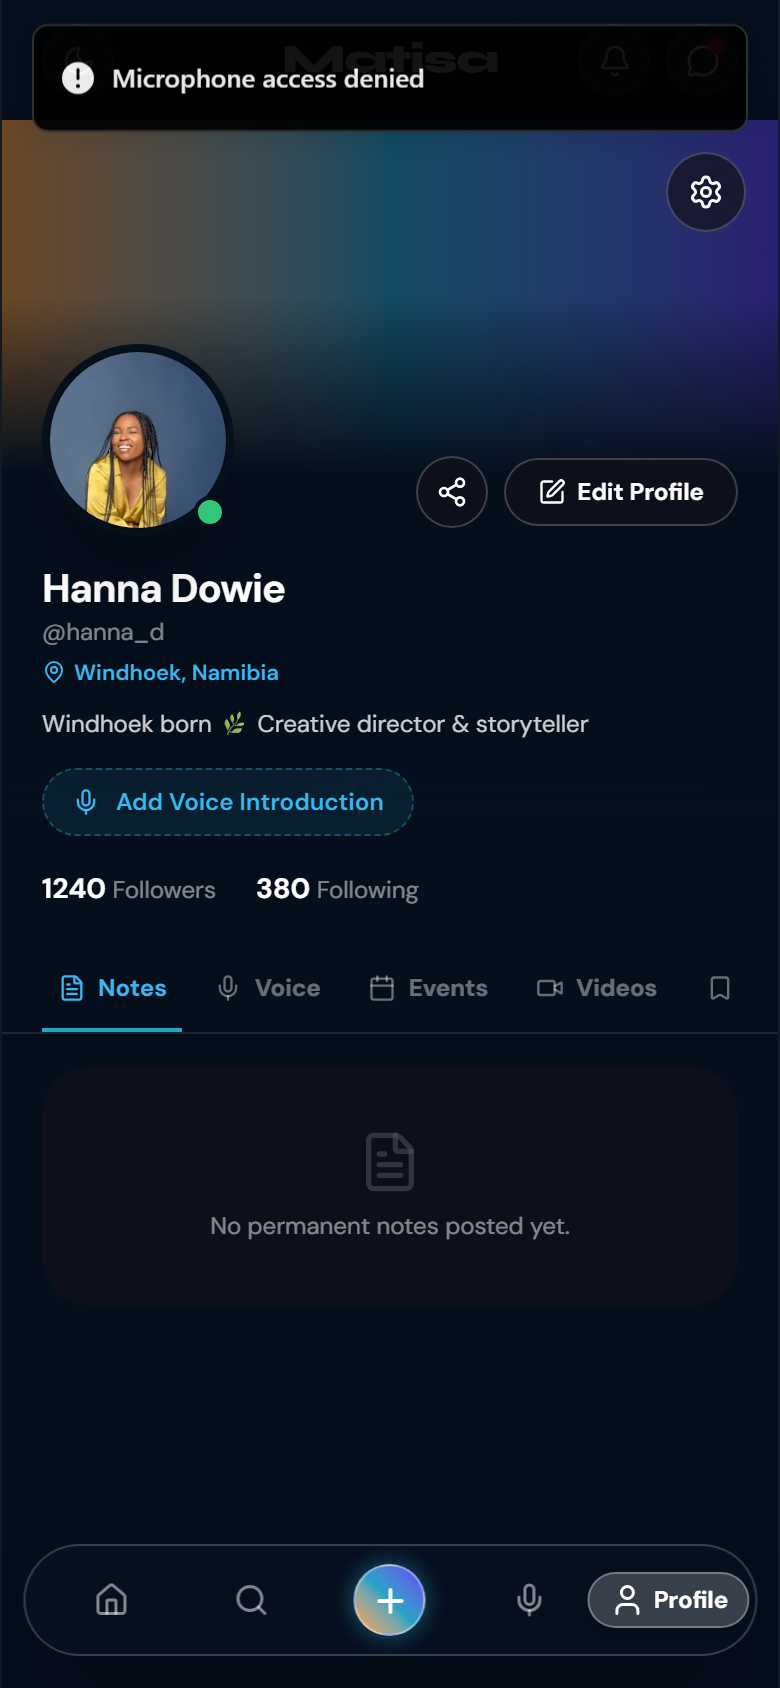
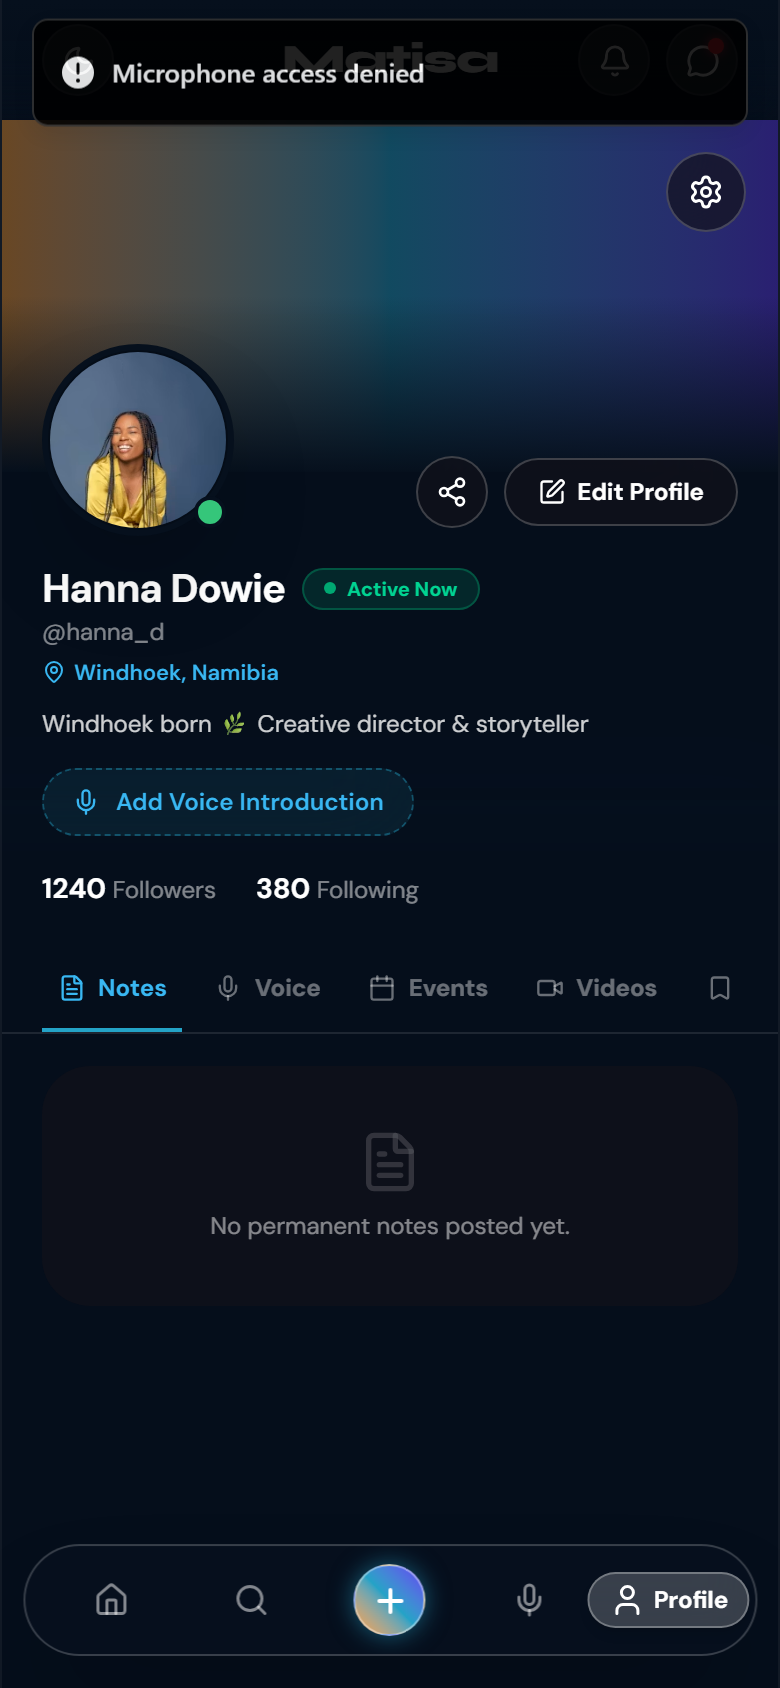
feat(ui): complete Phase 2 and 3 product refinements - contextual sheet, data saver, social proof, and spectator reactions

Changed region(s): [[0.0308, 0.0, 0.9538, 0.0924], [0.3692, 0.3389, 0.6154, 0.3697]]

diff --git a/src/pages/Settings.tsx b/src/pages/Settings.tsx
@@ -1,3 +1,4 @@
+import { useState } from "react";
 import { useNavigate } from "react-router-dom";
 import {
   ArrowLeft,
@@ -9,14 +10,33 @@ import {
   ChevronRight,
   User,
   Lock,
+  Wifi,
+  Sun,
 } from "lucide-react";
 import { useAuth } from "@/contexts/AuthContext";
+import { useTheme } from "@/contexts/ThemeContext";
 import { Avatar } from "@/components/common/Avatar";
 import { toast } from "sonner";
 
 export function Settings() {
   const navigate = useNavigate();
   const { signOut, profile } = useAuth();
+  const { isOutdoorMode, toggleOutdoorMode } = useTheme();
+
+  const [isDataSaver, setIsDataSaver] = useState<boolean>(() => {
+    return localStorage.getItem("matisa_data_saver") === "true";
+  });
+
+  const toggleDataSaver = () => {
+    const next = !isDataSaver;
+    setIsDataSaver(next);
+    localStorage.setItem("matisa_data_saver", String(next));
+    toast.success(
+      next
+        ? "Data Saver Enabled: Compressed images & no audio preloading"
+        : "Data Saver Disabled: Full quality media",
+    );
+  };
 
   const handleLogout = async () => {
     try {
@@ -46,6 +66,26 @@ export function Settings() {
       ],
     },
     {
+      title: "Regional & Network Optimization",
+      items: [
+        {
+          icon: Wifi,
+          label: `Data Saver Mode (${isDataSaver ? "ON" : "OFF"})`,
+          action: toggleDataSaver,
+        },
+        {
+          icon: Sun,
+          label: `Outdoor Sunlight Mode (${isOutdoorMode ? "ON" : "OFF"})`,
+          action: () => {
+            toggleOutdoorMode();
+            toast.success(
+              isOutdoorMode ? "Switched to Sleek Dark Mode" : "Switched to Sunlight Outdoor Mode",
+            );
+          },
+        },
+      ],
+    },
+    {
       title: "Notifications & Audio",
       items: [
         {
@@ -60,6 +100,7 @@ export function Settings() {
         },
       ],
     },
+
     {
       title: "Support & Legal",
       items: [

diff --git a/src/components/karaoke/KaraokeRoom.tsx b/src/components/karaoke/KaraokeRoom.tsx
@@ -312,6 +312,42 @@ export function KaraokeRoom() {
         </div>
       )}
 
+      {/* Spectator Cheer & Reaction Bar */}
+      <div className="relative z-20 px-5 mb-2 flex items-center justify-center gap-2">
+        <button
+          onClick={() => {
+            handleSendReaction();
+            toast.success("👏 You cheered the singer!");
+          }}
+          className="flex items-center gap-1 px-3 py-1.5 rounded-full bg-white/10 text-white text-xs font-bold border border-white/15 hover:bg-white/20 active:scale-95 transition"
+        >
+          <span>👏</span>
+          <span>Cheer</span>
+        </button>
+
+        <button
+          onClick={() => {
+            handleSendReaction();
+            toast.success("🔥 Fire energy sent!");
+          }}
+          className="flex items-center gap-1 px-3 py-1.5 rounded-full bg-[#FF9D2E]/15 text-[#FF9D2E] text-xs font-bold border border-[#FF9D2E]/30 hover:bg-[#FF9D2E]/25 active:scale-95 transition"
+        >
+          <span>🔥</span>
+          <span>Fire</span>
+        </button>
+
+        <button
+          onClick={() => {
+            handleSendReaction();
+            toast.success("🎉 Party vibes!");
+          }}
+          className="flex items-center gap-1 px-3 py-1.5 rounded-full bg-[#6139F2]/15 text-[#24A3C7] text-xs font-bold border border-[#6139F2]/30 hover:bg-[#6139F2]/25 active:scale-95 transition"
+        >
+          <span>🎉</span>
+          <span>Vibes</span>
+        </button>
+      </div>
+
       {/* Floating Bottom Controls */}
       <div className="relative z-20 p-5 pb-safe glass-header">
         <div className="mx-auto flex max-w-[360px] items-center justify-between rounded-full glass-panel-elevated px-5 py-3 border border-white/15 shadow-2xl">

diff --git a/src/components/create/CreateSheet.tsx b/src/components/create/CreateSheet.tsx
@@ -14,7 +14,7 @@ import {
   ChevronRight,
   ArrowLeft,
 } from "lucide-react";
-import { useNavigate } from "react-router-dom";
+import { useNavigate, useLocation } from "react-router-dom";
 import { toast } from "sonner";
 import { useAuth } from "@/contexts/AuthContext";
 import { NoteService } from "@/services/NoteService";
@@ -28,6 +28,7 @@ interface CreateSheetProps {
 
 export function CreateSheet({ open, onClose }: CreateSheetProps) {
   const navigate = useNavigate();
+  const location = useLocation();
   const { profile, requireAuth } = useAuth();
   const [level, setLevel] = useState<"root" | "note-type" | "note-composer" | "room-type">("root");
 
@@ -36,6 +37,22 @@ export function CreateSheet({ open, onClose }: CreateSheetProps) {
   const [isSubmitting, setIsSubmitting] = useState(false);
   const [voiceRecorderOpen, setVoiceRecorderOpen] = useState(false);
   const [storyModalOpen, setStoryModalOpen] = useState(false);
+
+  // Contextual pre-selection based on active route when sheet opens
+  useEffect(() => {
+    if (!open) {
+      setLevel("root");
+      return;
+    }
+
+    if (location.pathname.startsWith("/notes")) {
+      setLevel("note-type");
+    } else if (location.pathname.startsWith("/rooms")) {
+      setLevel("room-type");
+    } else {
+      setLevel("root");
+    }
+  }, [open, location.pathname]);
 
   // Prevent background body scroll when open
   useEffect(() => {

diff --git a/src/pages/Profile.tsx b/src/pages/Profile.tsx
@@ -196,9 +196,15 @@ export function Profile() {
 
         {/* Display Name & Handle */}
         <div>
-          <h1 className="text-xl font-bold text-white tracking-tight">
-            {profileData.display_name}
-          </h1>
+          <div className="flex items-center gap-2">
+            <h1 className="text-xl font-bold text-white tracking-tight">
+              {profileData.display_name}
+            </h1>
+            <span className="inline-flex items-center gap-1.5 px-2.5 py-0.5 rounded-full bg-emerald-500/15 text-emerald-400 text-[10px] font-bold border border-emerald-500/30">
+              <span className="h-1.5 w-1.5 rounded-full bg-emerald-500 animate-pulse" />
+              Active Now
+            </span>
+          </div>
           <p className="text-xs text-white/50">@{profileData.username}</p>
 
           {profileData.location && (

diff --git a/src/pages/Discovery.tsx b/src/pages/Discovery.tsx
@@ -332,6 +332,16 @@ export function Discovery() {
                     <p className="text-xs text-white/50">
                       @{user.username} • {user.location}
                     </p>
+                    <div className="flex items-center gap-1.5 mt-1">
+                      <span className="inline-flex items-center gap-1 px-2 py-0.5 rounded-full bg-[#24A3C7]/15 text-[#39B7F2] text-[10px] font-semibold border border-[#24A3C7]/30">
+                        <Users size={10} />
+                        {user.id === "usr-1"
+                          ? "3 mutual friends"
+                          : user.id === "usr-2"
+                            ? "Both in Windhoek Creators"
+                            : "Attending Swakop Sessions"}
+                      </span>
+                    </div>
                   </div>
                 </div>
 
